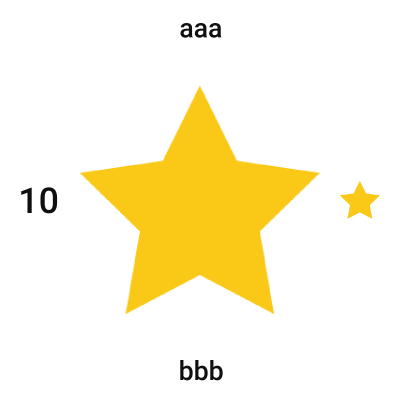
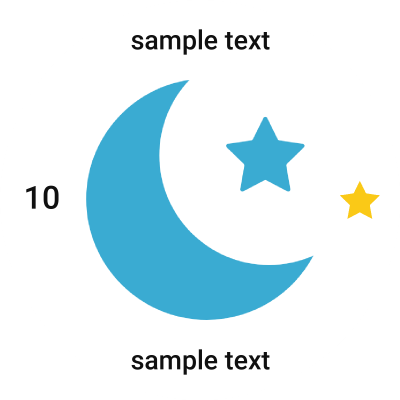
Support custom padding
Support change save image ext

Fix around font baseline probrems

Change generate method

diff --git a/src/GDContentsGenerator/Generator.php b/src/GDContentsGenerator/Generator.php
@@ -19,6 +19,19 @@ class Generator
         'webp' => "imagecreatefromwebp",
     ];
 
+    protected $imageOutFunctionsMap = [
+        'jpg'  => "imagejpeg",
+        'jpeg' => "imagejpeg",
+
+        'png'  => "imagepng",
+
+        'gif'  => "imagegif",
+
+        'bmp'  => "imagebmp",
+
+        'webp' => "imagewebp",
+    ];
+
     /**
      *
      *
@@ -105,7 +118,10 @@ class Generator
         $this->fontPath       = dirname(__DIR__) . '/fonts/Roboto-Medium.ttf';
         $this->tipImagePath   = dirname(__DIR__) . '/images/star.png';
 
+        $this->baselineRatio = (imagettfbbox(10, 0, $this->fontPath, '0')[3] - imagettfbbox(10, 0, $this->fontPath, '0')[7]) / (imagettfbbox(10, 0, $this->fontPath, '0gpy')[3] - imagettfbbox(10, 0, $this->fontPath, '0gpy')[7]);
+
         $this->baseImage = $this->createBaseImage();
+        imageantialias($this->baseImage, true);
     }
 
     /**
@@ -161,32 +177,52 @@ class Generator
      * save image
      *
      * @param string $savePath
-     * @return bool
+     * @param bool $destroy destroy image resource
+     * @return bool success save image
      */
-    public function save(string $savePath)
+    public function save(string $savePath, bool $destroy = true)
     {
-        return imagepng($this->antialiasImage($this->baseImage), $savePath);
+        $status = $this->imageOutFunctionsMap[self::getExtByPath($savePath)]($this->antialiasImage($this->baseImage), $savePath);
+
+        if ($destroy) {
+            imagedestroy($this->baseImage);
+        }
+        return $status;
     }
 
     /**
      * get antialiased image
      *
-     * @return Generator $this
+     * @param string $type
+     * @return resource|string $this
      */
-    public function generate()
+    public function generate($ext = null)
     {
-        return $this->antialiasImage($this->baseImage);
+        if ($ext === null) {
+            return $this->antialiasImage($this->baseImage);
+        }
+
+        ob_start();
+        $status = $this->imageOutFunctionsMap[$ext]($this->antialiasImage($this->baseImage));
+        $result = ob_get_clean();
+
+        return $result;
+    }
+
+    protected static function getExtByPath(string $path)
+    {
+        return preg_replace('/.*\.(.*)$/', '$1', basename($path));
     }
 
     /**
      * auto ditect ext and load image
      *
      * @param string $path
-     * @return Resource 
+     * @return Resource
      */
     protected function loadImage(string $path)
     {
-        $ext = preg_replace('/.*\.(.*)$/', '$1', basename($path));
+        $ext = self::getExtByPath($path);
 
         return $this->imageLoadFunctionsMap[$ext]($path);
     }
@@ -219,9 +255,9 @@ class Generator
         $this->drawingTextToCenter(
             $imageResource,
             $text,
-            $this->imageSize * 0.15,
+            $this->sampledImageSize * 0.05,
             $this->sampledImageSize / 2,
-            $this->imageSize * 0.225,
+            $this->sampledPadding / 2,
             $this->fontPath,
             $this->color->getTextColor()
         );
@@ -232,9 +268,9 @@ class Generator
         $this->drawingTextToCenter(
             $imageResource,
             $text,
-            $this->imageSize * 0.15,
+            $this->sampledImageSize * 0.05,
             $this->sampledImageSize / 2,
-            $this->sampledImageSize - $this->imageSize * 0.225,
+            $this->sampledImageSize - $this->sampledPadding / 2,
             $this->fontPath,
             $this->color->getTextColor()
         );
@@ -245,8 +281,8 @@ class Generator
         $this->drawingTextToCenter(
             $imageResource,
             $text,
-            $this->imageSize * 0.2,
-            $this->imageSize * 0.275,
+            $this->sampledImageSize * 0.06,
+            $this->sampledPadding / 2,
             $this->sampledImageSize / 2,
             $this->fontPath,
             $this->color->getTextColor()
@@ -259,12 +295,12 @@ class Generator
         imagecopyresized(
             $imageResource,
             $starImage,
-            $this->sampledImageSize - $this->imageSize * 0.45,
-            $this->sampledImageSize / 2 - $this->imageSize * 0.15,
+            $this->sampledImageSize - $this->sampledPadding / 2 - $this->sampledImageSize * 0.05,
+            $this->sampledImageSize / 2 - $this->sampledImageSize * 0.05,
             0,
             0,
-            $this->imageSize * 0.3,
-            $this->imageSize * 0.3,
+            $this->sampledImageSize * 0.1,
+            $this->sampledImageSize * 0.1,
             imagesx($starImage),
             imagesy($starImage)
         );
@@ -282,7 +318,7 @@ class Generator
             $fontSize,
             0,
             $x - $w / 2,
-            $y + $h / 2,
+            $y + ($h * $this->baselineRatio) / 2,
             $textColor,
             $fontPath,
             $text

diff --git a/sample.php b/sample.php
@@ -11,9 +11,9 @@ $colorArray = [
 $color     = new GDContentsGenerator\Color(...$colorArray);
 $generator = new GDContentsGenerator\Generator(
     $color,
-    'src/images/star.png'
+    'sample_contents_image.png'
 );
 
-$generator->drawDetails("aaa", "bbb", "10")
+$generator->drawDetails("sample text", "sample text", "10")
     ->generateContentsImage()
-    ->save("sample.png");
+    ->save('sample.png');

diff --git a/README.MD b/README.MD
@@ -43,6 +43,11 @@ $generator2>drawDetails("top text", "bottom text", "left text")
     
 $result = $generator2->generate(); // return result image resource
 
+$result = $generator2->generate('jpg'); // return result image binary
+$result = $generator2->generate('png'); // return result image binary
+$result = $generator2->generate('gif'); // return result image binary
+$result = $generator2->generate('webp'); // return result image binary
+
 ```
 
 ## sample
